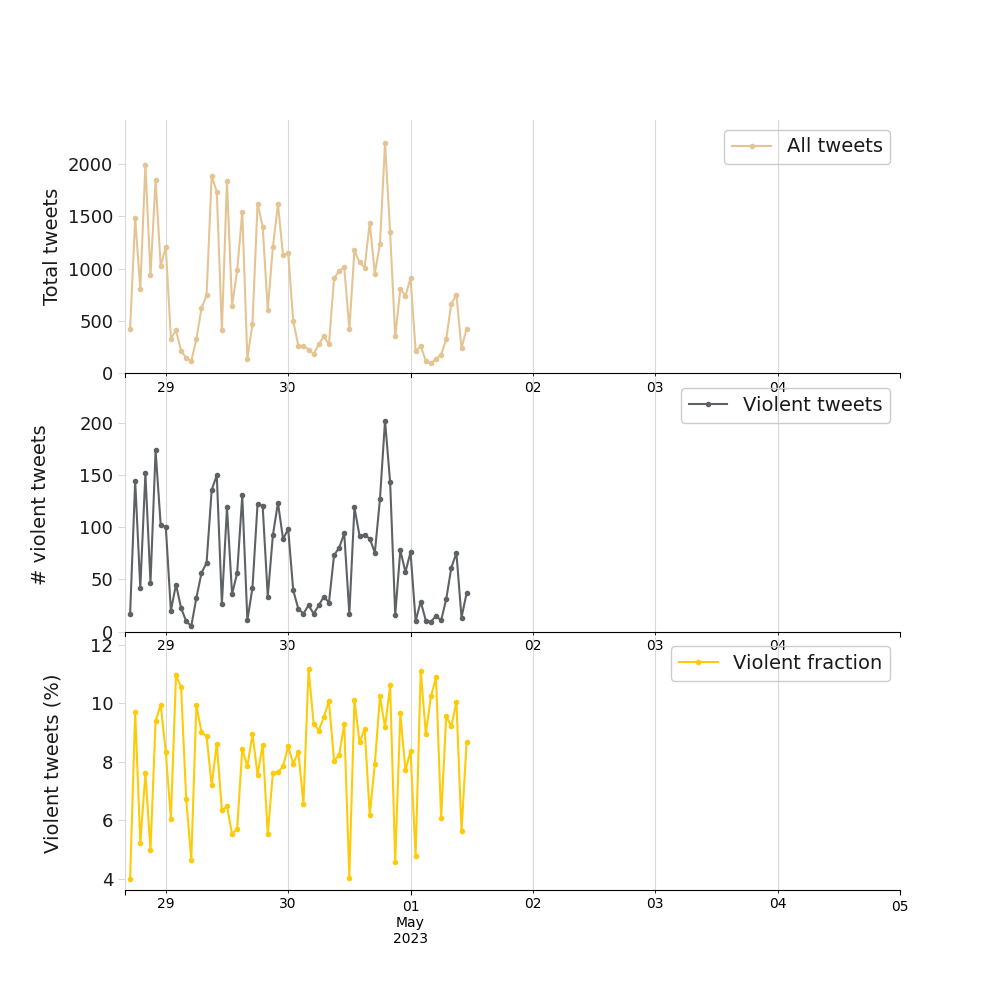
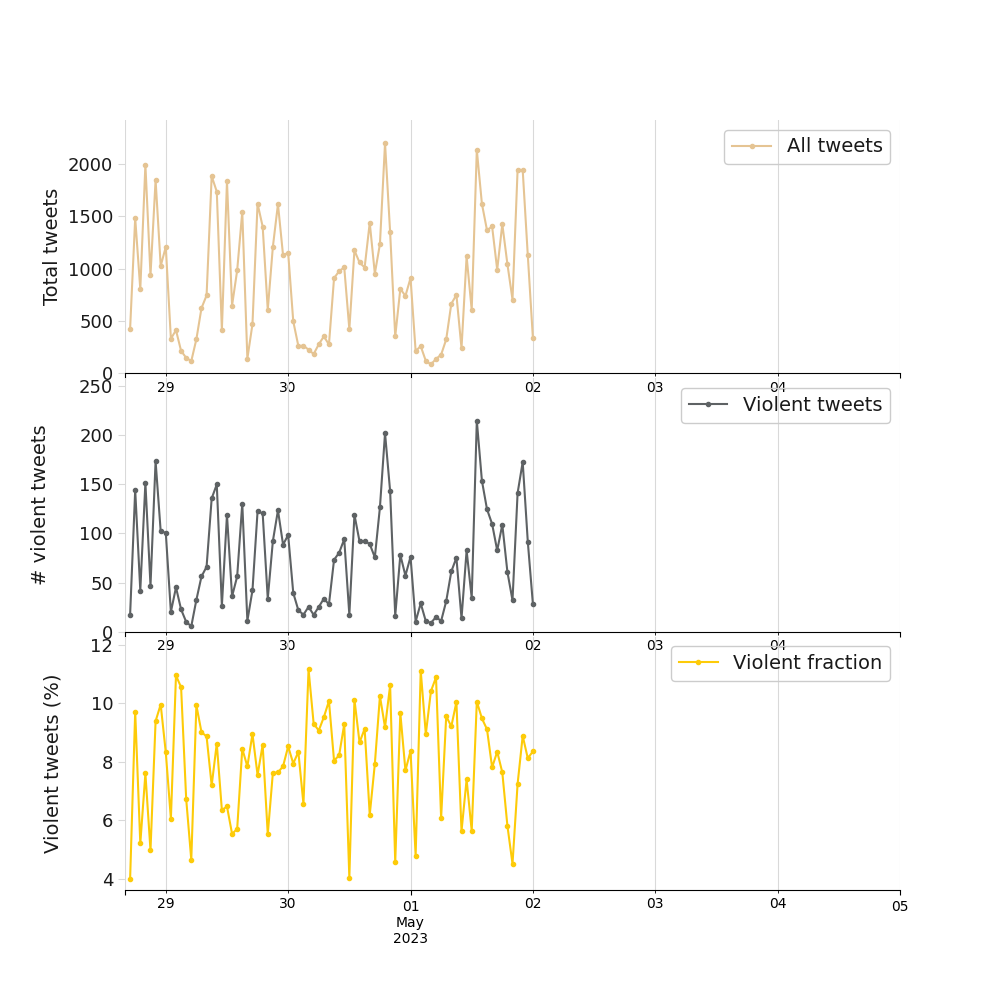
Auto-update webpage data >> 2023-05-02_10:13:59

diff --git a/assets/js/data.js b/assets/js/data.js
@@ -1,1 +1,1 @@
-data = '{"total_counts": 4363, "yesterday_counts": 1661, "time_series_plot": "../../assets/img/graficos/tweets_agressivos_por_dia_feminino.png", "last_update": "2023-05-01T11:00:04"}'
+data = '{"total_counts": 5763, "yesterday_counts": 1751, "time_series_plot": "../../assets/img/graficos/tweets_agressivos_por_dia_feminino.png", "last_update": "2023-05-02T00:00:06"}'
